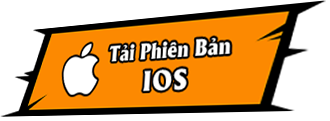
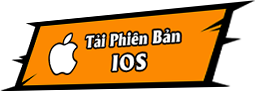
update-trailer

diff --git a/landing_at/assets/css/style.css b/landing_at/assets/css/style.css
@@ -127,22 +127,22 @@
 /* TRAILER */
 .trailer{
     position: absolute;
-    top: 33vw;
+    top: 32vw;
     left: 44vw;
 }
 
 .trailer img{
-    width: 8vw;
+    width: 6.18vw;
 }
 
 .napthe-btn{
     position: absolute;
-    top: 32vw;
-    left: 84vw;
+    top: 31vw;
+    left: 80vw;
 }
 
 .napthe-btn img{
-    width: 8vw;
+    width: 15vw;
 }
 
 
